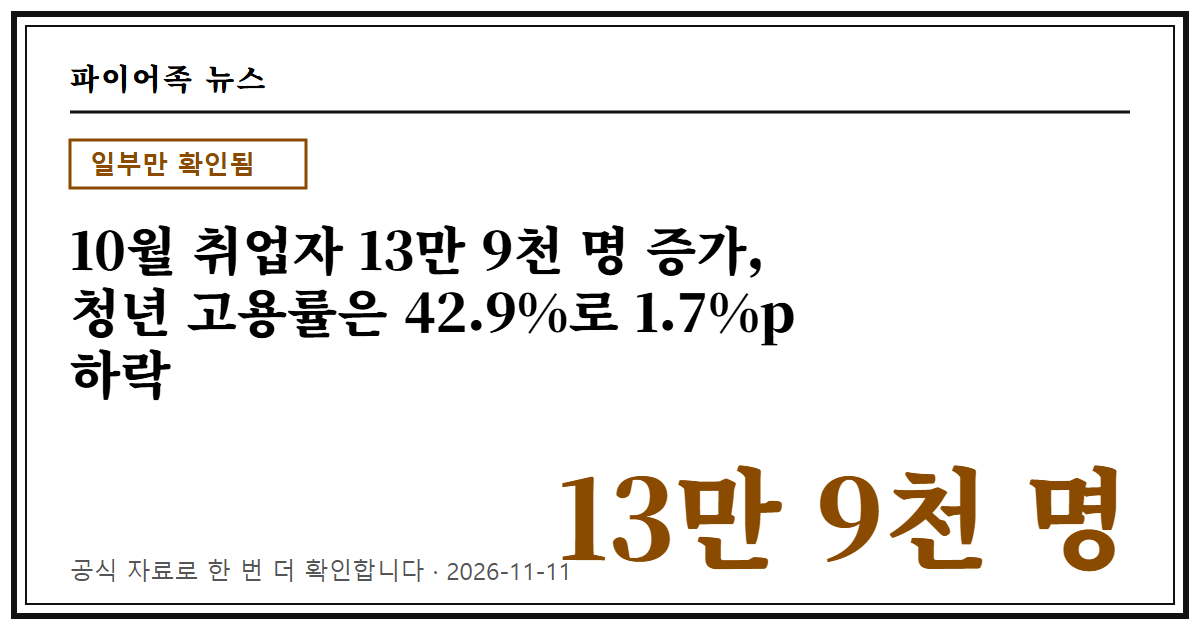
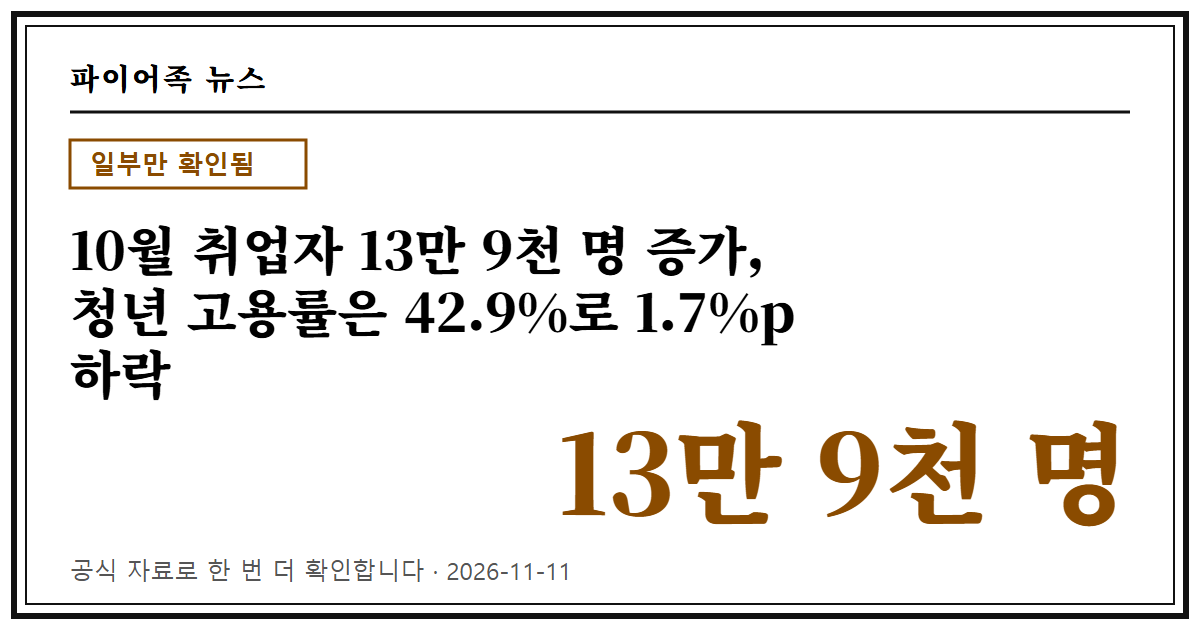
카드 그림: 큰 숫자 위치를 올려 아래 글과 겹치지 않게

diff --git a/docs/status/index.html b/docs/status/index.html
@@ -4,5 +4,5 @@
 <header class="mast"><div class="wrap"><div class="dateline">2026년 11월 11일 수요일 · 돈과 생활 뉴스에 나온 제도·숫자·날짜를 공식 자료로 한 번 더 맞춰 보는 정보 사이트</div>
 <a class="logo" href="/fact-magazine/">파이어족 뉴스</a></div></header>
 <div class="wrap"><nav class="menu"><a href="/fact-magazine/">오늘</a><a href="/fact-magazine/games/">게임</a><a href="/fact-magazine/issue/">잡지</a><a href="/fact-magazine/post/">글</a><a href="/fact-magazine/novel/">연재</a><details class="mn"><summary>더 보기</summary><div class="mnp"><a href="/fact-magazine/toon/">웹툰</a><a href="/fact-magazine/video/">영상</a><a href="/fact-magazine/calc/">계산기</a><a href="/fact-magazine/glossary/">용어</a><a href="/fact-magazine/schedule/">일정</a><a href="/fact-magazine/faq/">질문</a><a href="/fact-magazine/links/">링크</a><a href="/fact-magazine/search/">검색</a><a href="/fact-magazine/how/">확인하는 방법</a><a href="/fact-magazine/about/">소개</a><a href="/fact-magazine/contact/">문의</a><a href="/fact-magazine/demo/">조립 예시</a></div></details></nav></div>
-<main class="wrap"><div class="page"><span class="lb">상태</span><h1>상태</h1><table class="mdt"><tbody><tr><th>마지막 수집</th><td>2026-11-11 13:26</td></tr><tr><th>마지막 빌드</th><td>2026-11-11 13:34</td></tr><tr><th>수집한 기사(최근 3일)</th><td>869건</td></tr><tr><th>피드</th><td>9곳 중 문제 0곳</td></tr><tr><th>확인 노트</th><td>5건 (대조 통과 기록 5건 · 보류 0건)</td></tr><tr><th>글·소설 회차</th><td>2편 · 3화</td></tr><tr><th>게임</th><td>3개</td></tr><tr><th>점검(audit.py)</th><td>쪽 274개, 문제 3건 (2026-11-11 13:31)</td></tr><tr><th>최근 커밋</th><td>2026-11-11 13:31 · 주소 점검 키트 한계 안내(쿠키·307)</td></tr></tbody></table><h2>피드별</h2><table class="mdt"><tbody><tr><td>연합뉴스 경제</td><td>120건</td><td>정상</td></tr><tr><td>연합뉴스 사회</td><td>120건</td><td>정상</td></tr><tr><td>뉴시스 경제</td><td>100건</td><td>정상</td></tr><tr><td>SBS 경제</td><td>29건</td><td>정상</td></tr><tr><td>한겨레 경제</td><td>30건</td><td>정상</td></tr><tr><td>경향신문 경제</td><td>50건</td><td>정상</td></tr><tr><td>동아일보 경제</td><td>50건</td><td>정상</td></tr><tr><td>매일경제 경제</td><td>50건</td><td>정상</td></tr><tr><td>한국경제 경제</td><td>50건</td><td>정상</td></tr></tbody></table><h2>점검에서 나온 문제 (앞 20건)</h2><ul><li>toon/index.html: 빈 쪽(본문 글자 77자)</li><li>wiki/index.html: 빈 쪽(본문 글자 26자)</li><li>wiki/키트/index.html: 빈 쪽(본문 글자 64자)</li></ul></div></main>
+<main class="wrap"><div class="page"><span class="lb">상태</span><h1>상태</h1><table class="mdt"><tbody><tr><th>마지막 수집</th><td>2026-11-11 13:26</td></tr><tr><th>마지막 빌드</th><td>2026-11-11 13:34</td></tr><tr><th>수집한 기사(최근 3일)</th><td>869건</td></tr><tr><th>피드</th><td>9곳 중 문제 0곳</td></tr><tr><th>확인 노트</th><td>5건 (대조 통과 기록 5건 · 보류 0건)</td></tr><tr><th>글·소설 회차</th><td>2편 · 3화</td></tr><tr><th>게임</th><td>3개</td></tr><tr><th>점검(audit.py)</th><td>쪽 274개, 문제 3건 (2026-11-11 13:31)</td></tr><tr><th>최근 커밋</th><td>2026-11-11 13:34 · 카드 그림: 큰 숫자를 조·억·만 묶음으로 뽑고 노트 제목과 글자 그대로 같은지 검사, 알림 문구가 숫자 덩어리를 자르지 않게, doctor.py·serve.py 추가</td></tr></tbody></table><h2>피드별</h2><table class="mdt"><tbody><tr><td>연합뉴스 경제</td><td>120건</td><td>정상</td></tr><tr><td>연합뉴스 사회</td><td>120건</td><td>정상</td></tr><tr><td>뉴시스 경제</td><td>100건</td><td>정상</td></tr><tr><td>SBS 경제</td><td>29건</td><td>정상</td></tr><tr><td>한겨레 경제</td><td>30건</td><td>정상</td></tr><tr><td>경향신문 경제</td><td>50건</td><td>정상</td></tr><tr><td>동아일보 경제</td><td>50건</td><td>정상</td></tr><tr><td>매일경제 경제</td><td>50건</td><td>정상</td></tr><tr><td>한국경제 경제</td><td>50건</td><td>정상</td></tr></tbody></table><h2>점검에서 나온 문제 (앞 20건)</h2><ul><li>toon/index.html: 빈 쪽(본문 글자 77자)</li><li>wiki/index.html: 빈 쪽(본문 글자 26자)</li><li>wiki/키트/index.html: 빈 쪽(본문 글자 64자)</li></ul></div></main>
 <footer><div class="wrap"><a href="/fact-magazine/privacy/">개인정보 처리방침</a><a href="/fact-magazine/feed.xml">RSS</a><a href="/fact-magazine/ebook/">전자책</a><a href="/fact-magazine/status/">상태</a><a href="/fact-magazine/kits/">키트</a><a href="/fact-magazine/topics/">주제</a><a href="/fact-magazine/today/">오늘의 추천</a><a href="/fact-magazine/widget/">퍼가기</a><a href="/fact-magazine/changes/">바뀐 내역</a><a href="/fact-magazine/timeline/">타임라인</a><a href="/fact-magazine/rank/">화제 순위</a><a href="/fact-magazine/wiki/">위키</a><a href="/fact-magazine/faq/">자주 묻는 질문</a><a href="/fact-magazine/schedule/">일정</a><a href="/fact-magazine/quiz/">퀴즈</a><a href="/fact-magazine/compare/">표 비교</a><a href="/fact-magazine/gallery/">사진첩</a><a href="/fact-magazine/links/">링크 모음</a><a href="/fact-magazine/tags/">태그</a><a href="/fact-magazine/dday/">디데이</a><a href="/fact-magazine/survey/">설문</a><a href="/fact-magazine/ledger/">가계부</a><a href="/fact-magazine/cards/">카드 그림</a><a href="/fact-magazine/onepage/">한 장 요약</a><p class="prefs">보기 설정: <button type="button" data-fz="-0.1">글자 작게</button><button type="button" data-fz="0.1">글자 크게</button><button type="button" data-th="1">어두운 바탕 켜기/끄기</button></p><script>(function(){var d=document.documentElement;document.querySelectorAll(".prefs button").forEach(function(b){b.onclick=function(){try{if(b.dataset.th){var t=d.getAttribute("data-theme")==="dark"?"light":"dark";d.setAttribute("data-theme",t);localStorage.setItem("fm_theme",t)}else{var z=Math.max(.8,Math.min(1.5,(parseFloat(d.style.getPropertyValue("--fz"))||1)+parseFloat(b.dataset.fz)));d.style.setProperty("--fz",z);localStorage.setItem("fm_fz",z)}}catch(e){}}})})()</script><p>기사 본문은 싣지 않고 제목·매체·시각·링크만 모아 보여 줍니다. 기사의 저작권은 각 매체에 있습니다.</p></div></footer></body></html>

diff --git a/docs/demo/tools/status/index.html b/docs/demo/tools/status/index.html
@@ -4,5 +4,5 @@
 <header class="mast"><div class="wrap"><div class="dateline">2026년 11월 11일 수요일 · 숫자를 넣으면 바로 계산되는 도구와 용어 풀이</div>
 <a class="logo" href="/fact-magazine/demo/tools/">한입 도구함</a></div></header>
 <div class="wrap"><nav class="menu"><a href="/fact-magazine/demo/tools/">처음</a><a href="/fact-magazine/demo/tools/calc/">계산기</a><a href="/fact-magazine/demo/tools/glossary/">용어</a><a href="/fact-magazine/demo/tools/search/">검색</a><a href="/fact-magazine/demo/tools/how/">확인하는 방법</a><details class="mn"><summary>더 보기</summary><div class="mnp"><a href="/fact-magazine/demo/tools/about/">소개</a><a href="/fact-magazine/demo/tools/contact/">문의</a></div></details></nav></div>
-<main class="wrap"><div class="page"><span class="lb">상태</span><h1>상태</h1><table class="mdt"><tbody><tr><th>마지막 수집</th><td>2026-11-11 13:26</td></tr><tr><th>마지막 빌드</th><td>2026-11-11 13:34</td></tr><tr><th>수집한 기사(최근 3일)</th><td>869건</td></tr><tr><th>피드</th><td>9곳 중 문제 0곳</td></tr><tr><th>확인 노트</th><td>0건 (대조 통과 기록 5건 · 보류 0건)</td></tr><tr><th>글·소설 회차</th><td>0편 · 0화</td></tr><tr><th>게임</th><td>0개</td></tr><tr><th>점검(audit.py)</th><td>쪽 274개, 문제 3건 (2026-11-11 13:31)</td></tr><tr><th>최근 커밋</th><td>2026-11-11 13:31 · 주소 점검 키트 한계 안내(쿠키·307)</td></tr></tbody></table><h2>피드별</h2><table class="mdt"><tbody><tr><td>연합뉴스 경제</td><td>120건</td><td>정상</td></tr><tr><td>연합뉴스 사회</td><td>120건</td><td>정상</td></tr><tr><td>뉴시스 경제</td><td>100건</td><td>정상</td></tr><tr><td>SBS 경제</td><td>29건</td><td>정상</td></tr><tr><td>한겨레 경제</td><td>30건</td><td>정상</td></tr><tr><td>경향신문 경제</td><td>50건</td><td>정상</td></tr><tr><td>동아일보 경제</td><td>50건</td><td>정상</td></tr><tr><td>매일경제 경제</td><td>50건</td><td>정상</td></tr><tr><td>한국경제 경제</td><td>50건</td><td>정상</td></tr></tbody></table><h2>점검에서 나온 문제 (앞 20건)</h2><ul><li>toon/index.html: 빈 쪽(본문 글자 77자)</li><li>wiki/index.html: 빈 쪽(본문 글자 26자)</li><li>wiki/키트/index.html: 빈 쪽(본문 글자 64자)</li></ul></div></main>
+<main class="wrap"><div class="page"><span class="lb">상태</span><h1>상태</h1><table class="mdt"><tbody><tr><th>마지막 수집</th><td>2026-11-11 13:26</td></tr><tr><th>마지막 빌드</th><td>2026-11-11 13:34</td></tr><tr><th>수집한 기사(최근 3일)</th><td>869건</td></tr><tr><th>피드</th><td>9곳 중 문제 0곳</td></tr><tr><th>확인 노트</th><td>0건 (대조 통과 기록 5건 · 보류 0건)</td></tr><tr><th>글·소설 회차</th><td>0편 · 0화</td></tr><tr><th>게임</th><td>0개</td></tr><tr><th>점검(audit.py)</th><td>쪽 274개, 문제 3건 (2026-11-11 13:31)</td></tr><tr><th>최근 커밋</th><td>2026-11-11 13:34 · 카드 그림: 큰 숫자를 조·억·만 묶음으로 뽑고 노트 제목과 글자 그대로 같은지 검사, 알림 문구가 숫자 덩어리를 자르지 않게, doctor.py·serve.py 추가</td></tr></tbody></table><h2>피드별</h2><table class="mdt"><tbody><tr><td>연합뉴스 경제</td><td>120건</td><td>정상</td></tr><tr><td>연합뉴스 사회</td><td>120건</td><td>정상</td></tr><tr><td>뉴시스 경제</td><td>100건</td><td>정상</td></tr><tr><td>SBS 경제</td><td>29건</td><td>정상</td></tr><tr><td>한겨레 경제</td><td>30건</td><td>정상</td></tr><tr><td>경향신문 경제</td><td>50건</td><td>정상</td></tr><tr><td>동아일보 경제</td><td>50건</td><td>정상</td></tr><tr><td>매일경제 경제</td><td>50건</td><td>정상</td></tr><tr><td>한국경제 경제</td><td>50건</td><td>정상</td></tr></tbody></table><h2>점검에서 나온 문제 (앞 20건)</h2><ul><li>toon/index.html: 빈 쪽(본문 글자 77자)</li><li>wiki/index.html: 빈 쪽(본문 글자 26자)</li><li>wiki/키트/index.html: 빈 쪽(본문 글자 64자)</li></ul></div></main>
 <footer><div class="wrap"><a href="/fact-magazine/demo/tools/privacy/">개인정보 처리방침</a><a href="/fact-magazine/demo/tools/status/">상태</a><p>기사 본문은 싣지 않고 제목·매체·시각·링크만 모아 보여 줍니다. 기사의 저작권은 각 매체에 있습니다.</p></div></footer></body></html>

diff --git a/docs/demo/magazine/status/index.html b/docs/demo/magazine/status/index.html
@@ -4,5 +4,5 @@
 <header class="mast"><div class="wrap"><div class="dateline">2026년 11월 11일 수요일 · 여러 매체가 함께 다룬 소식의 숫자를 공식 자료로 맞춰 보는 정보 매거진</div>
 <a class="logo" href="/fact-magazine/demo/magazine/">한입 매거진</a></div></header>
 <div class="wrap"><nav class="menu"><a href="/fact-magazine/demo/magazine/">오늘</a><a href="/fact-magazine/demo/magazine/issue/">잡지</a><a href="/fact-magazine/demo/magazine/search/">검색</a><a href="/fact-magazine/demo/magazine/how/">확인하는 방법</a><a href="/fact-magazine/demo/magazine/about/">소개</a><a href="/fact-magazine/demo/magazine/contact/">문의</a></nav></div>
-<main class="wrap"><div class="page"><span class="lb">상태</span><h1>상태</h1><table class="mdt"><tbody><tr><th>마지막 수집</th><td>2026-11-11 13:26</td></tr><tr><th>마지막 빌드</th><td>2026-11-11 13:34</td></tr><tr><th>수집한 기사(최근 3일)</th><td>869건</td></tr><tr><th>피드</th><td>9곳 중 문제 0곳</td></tr><tr><th>확인 노트</th><td>5건 (대조 통과 기록 5건 · 보류 0건)</td></tr><tr><th>글·소설 회차</th><td>0편 · 0화</td></tr><tr><th>게임</th><td>0개</td></tr><tr><th>점검(audit.py)</th><td>쪽 274개, 문제 3건 (2026-11-11 13:31)</td></tr><tr><th>최근 커밋</th><td>2026-11-11 13:31 · 주소 점검 키트 한계 안내(쿠키·307)</td></tr></tbody></table><h2>피드별</h2><table class="mdt"><tbody><tr><td>연합뉴스 경제</td><td>120건</td><td>정상</td></tr><tr><td>연합뉴스 사회</td><td>120건</td><td>정상</td></tr><tr><td>뉴시스 경제</td><td>100건</td><td>정상</td></tr><tr><td>SBS 경제</td><td>29건</td><td>정상</td></tr><tr><td>한겨레 경제</td><td>30건</td><td>정상</td></tr><tr><td>경향신문 경제</td><td>50건</td><td>정상</td></tr><tr><td>동아일보 경제</td><td>50건</td><td>정상</td></tr><tr><td>매일경제 경제</td><td>50건</td><td>정상</td></tr><tr><td>한국경제 경제</td><td>50건</td><td>정상</td></tr></tbody></table><h2>점검에서 나온 문제 (앞 20건)</h2><ul><li>toon/index.html: 빈 쪽(본문 글자 77자)</li><li>wiki/index.html: 빈 쪽(본문 글자 26자)</li><li>wiki/키트/index.html: 빈 쪽(본문 글자 64자)</li></ul></div></main>
+<main class="wrap"><div class="page"><span class="lb">상태</span><h1>상태</h1><table class="mdt"><tbody><tr><th>마지막 수집</th><td>2026-11-11 13:26</td></tr><tr><th>마지막 빌드</th><td>2026-11-11 13:34</td></tr><tr><th>수집한 기사(최근 3일)</th><td>869건</td></tr><tr><th>피드</th><td>9곳 중 문제 0곳</td></tr><tr><th>확인 노트</th><td>5건 (대조 통과 기록 5건 · 보류 0건)</td></tr><tr><th>글·소설 회차</th><td>0편 · 0화</td></tr><tr><th>게임</th><td>0개</td></tr><tr><th>점검(audit.py)</th><td>쪽 274개, 문제 3건 (2026-11-11 13:31)</td></tr><tr><th>최근 커밋</th><td>2026-11-11 13:34 · 카드 그림: 큰 숫자를 조·억·만 묶음으로 뽑고 노트 제목과 글자 그대로 같은지 검사, 알림 문구가 숫자 덩어리를 자르지 않게, doctor.py·serve.py 추가</td></tr></tbody></table><h2>피드별</h2><table class="mdt"><tbody><tr><td>연합뉴스 경제</td><td>120건</td><td>정상</td></tr><tr><td>연합뉴스 사회</td><td>120건</td><td>정상</td></tr><tr><td>뉴시스 경제</td><td>100건</td><td>정상</td></tr><tr><td>SBS 경제</td><td>29건</td><td>정상</td></tr><tr><td>한겨레 경제</td><td>30건</td><td>정상</td></tr><tr><td>경향신문 경제</td><td>50건</td><td>정상</td></tr><tr><td>동아일보 경제</td><td>50건</td><td>정상</td></tr><tr><td>매일경제 경제</td><td>50건</td><td>정상</td></tr><tr><td>한국경제 경제</td><td>50건</td><td>정상</td></tr></tbody></table><h2>점검에서 나온 문제 (앞 20건)</h2><ul><li>toon/index.html: 빈 쪽(본문 글자 77자)</li><li>wiki/index.html: 빈 쪽(본문 글자 26자)</li><li>wiki/키트/index.html: 빈 쪽(본문 글자 64자)</li></ul></div></main>
 <footer><div class="wrap"><a href="/fact-magazine/demo/magazine/privacy/">개인정보 처리방침</a><a href="/fact-magazine/demo/magazine/status/">상태</a><p>기사 본문은 싣지 않고 제목·매체·시각·링크만 모아 보여 줍니다. 기사의 저작권은 각 매체에 있습니다.</p></div></footer></body></html>

diff --git a/card.py b/card.py
@@ -61,7 +61,7 @@ def svg(n, name):
     ty = 270
     tt = ''.join(f'<text x="70" y="{ty + i * 62}" font-size="52" font-weight="800">{E(l)}</text>' for i, l in enumerate(lines))
     size = max(48, min(110, int(900 / max(1, 0.8 * len(num))))) if num else 0   # 긴 숫자는 글자 크기를 낮춰 칸에 다 들어가게(줄이거나 자르지 않음)
-    big = f'<text x="1130" y="560" text-anchor="end" font-size="{size}" font-weight="900" fill="{col}">{E(num)}</text>' if num else ''
+    big = f'<text x="1130" y="515" text-anchor="end" font-size="{size}" font-weight="900" fill="{col}">{E(num)}</text>' if num else ''
     return (f'<svg xmlns="http://www.w3.org/2000/svg" viewBox="0 0 1200 630" width="1200" height="630" font-family="\'Noto Serif KR\',\'Nanum Myeongjo\',Batang,serif">'
             f'<rect width="1200" height="630" fill="#fff"/><rect x="14" y="14" width="1172" height="602" fill="none" stroke="#111" stroke-width="6"/><rect x="26" y="26" width="1148" height="578" fill="none" stroke="#111" stroke-width="2"/>'
             f'<text x="70" y="90" font-size="30" font-weight="900" letter-spacing="2">{E(name)}</text><line x1="70" y1="112" x2="1130" y2="112" stroke="#111" stroke-width="3"/>'
